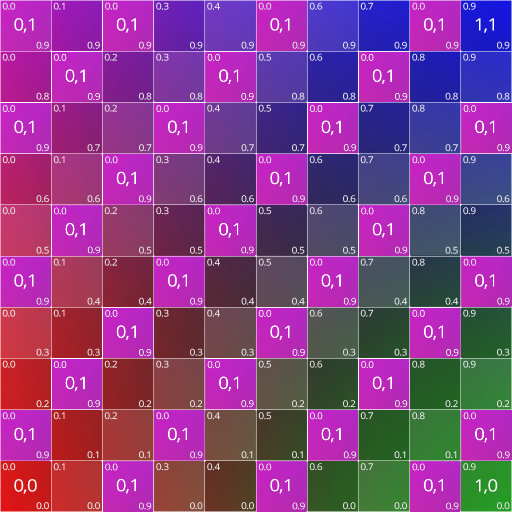
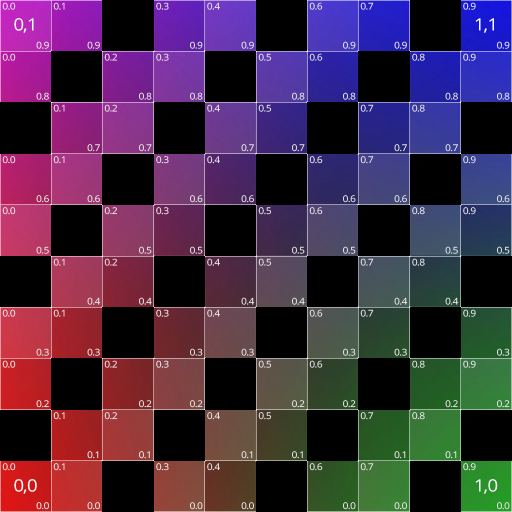
fix: tilemap discard

diff --git a/tilemap.ts b/tilemap.ts
@@ -66,7 +66,7 @@ const atlasSampler = device.createSampler({
 	minFilter: "linear"
 });
 
-const tileMapData = new Uint32Array(new Array(10 * 10).fill(0).map((_, i) => (i + 1) % 3 ? i : 0));
+const tileMapData = new Uint32Array(new Array(10 * 10).fill(0).map((_, i) => (i + 1) % 3 ? i + 1 : 0));
 const tileMapTexture = device.createTexture({
 	size: {
 		width: 10,
@@ -175,23 +175,31 @@ const shaderModule = device.createShaderModule({
 			// return vec4<f32>(tileUV, 0.5, 1f);							// visualize tile UV
 
 			let tilePosition = vec2<i32>(frag.UV / (1f / tileSizeF32));
-			let tileIdx = textureLoad(TileMapTexture, tilePosition, 0i).r;
+			let tileIdx1 = textureLoad(TileMapTexture, tilePosition, 0i).r;
+			let tileIdx0 = tileIdx1 - 1u;
 
-			// return vec4<f32>(f32(tileIdx) / 255f, 0f, 0f, 1f);			// visualize tile index
+			// return vec4<f32>(f32(tileIdx0) / 255f, 0f, 0f, 1f);			// visualize tile index
 
 			let atlasTileSize = vec2<u32>(10u, 10u);
 
 			let atlasPosition = vec2<u32>(
-				tileIdx % atlasTileSize.x,
-				tileIdx / atlasTileSize.x
+				tileIdx0 % atlasTileSize.x,
+				tileIdx0 / atlasTileSize.x
 			);
 
 			// return vec4<f32>(vec2<f32>(atlasPosition) / 255f, 0f, 1f);	// visualize atlas position
 
 			let atlasUV = vec2<f32>(atlasPosition) / vec2<f32>(atlasTileSize) + tileUV * (1f / tileSizeF32);
-			
+
 			// return vec4<f32>(atlasUV, 0f, 1f);
-			return textureSample(AtlasTexture, AtlasSampler, atlasUV);
+
+			let atlasColor = textureSample(AtlasTexture, AtlasSampler, atlasUV);
+			
+			if tileIdx1 == 0u {
+				discard;
+			} else {
+				return atlasColor;
+			}
 		}
 	`
 });
